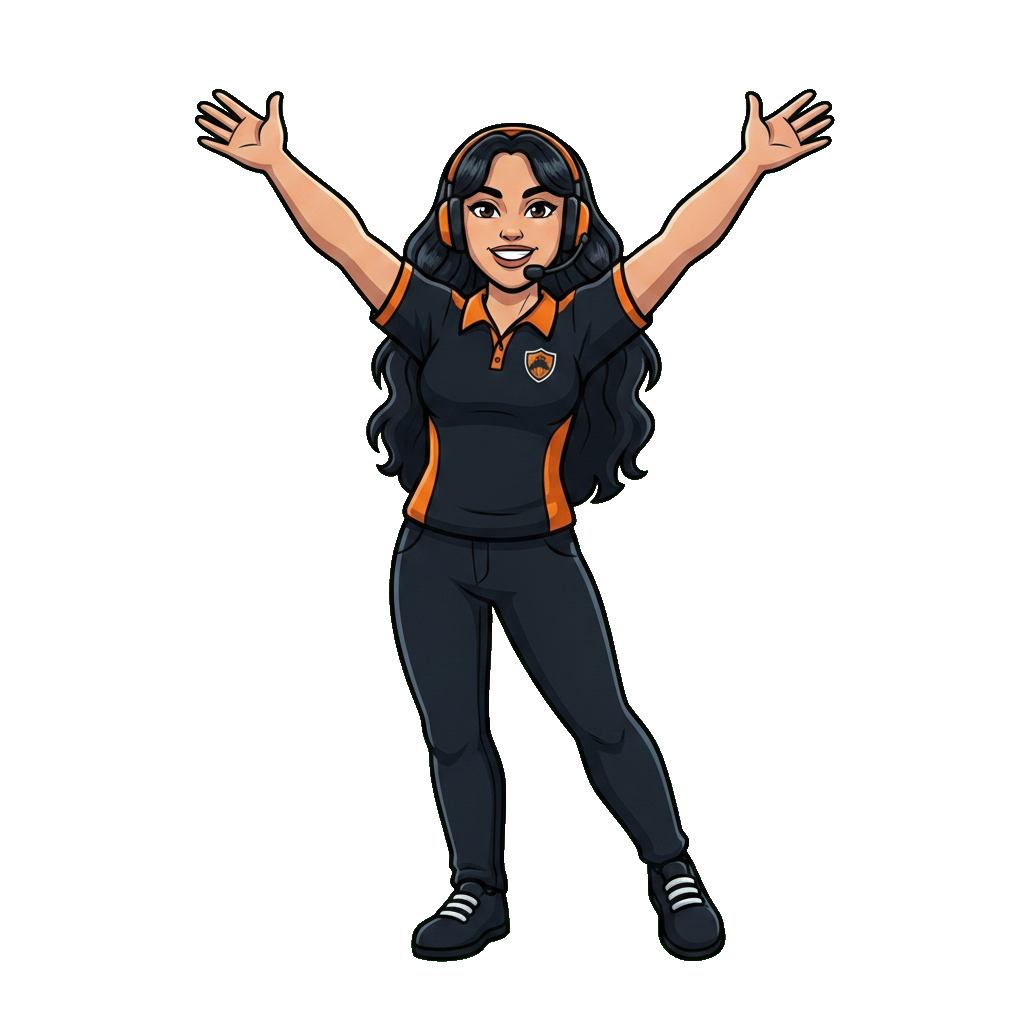
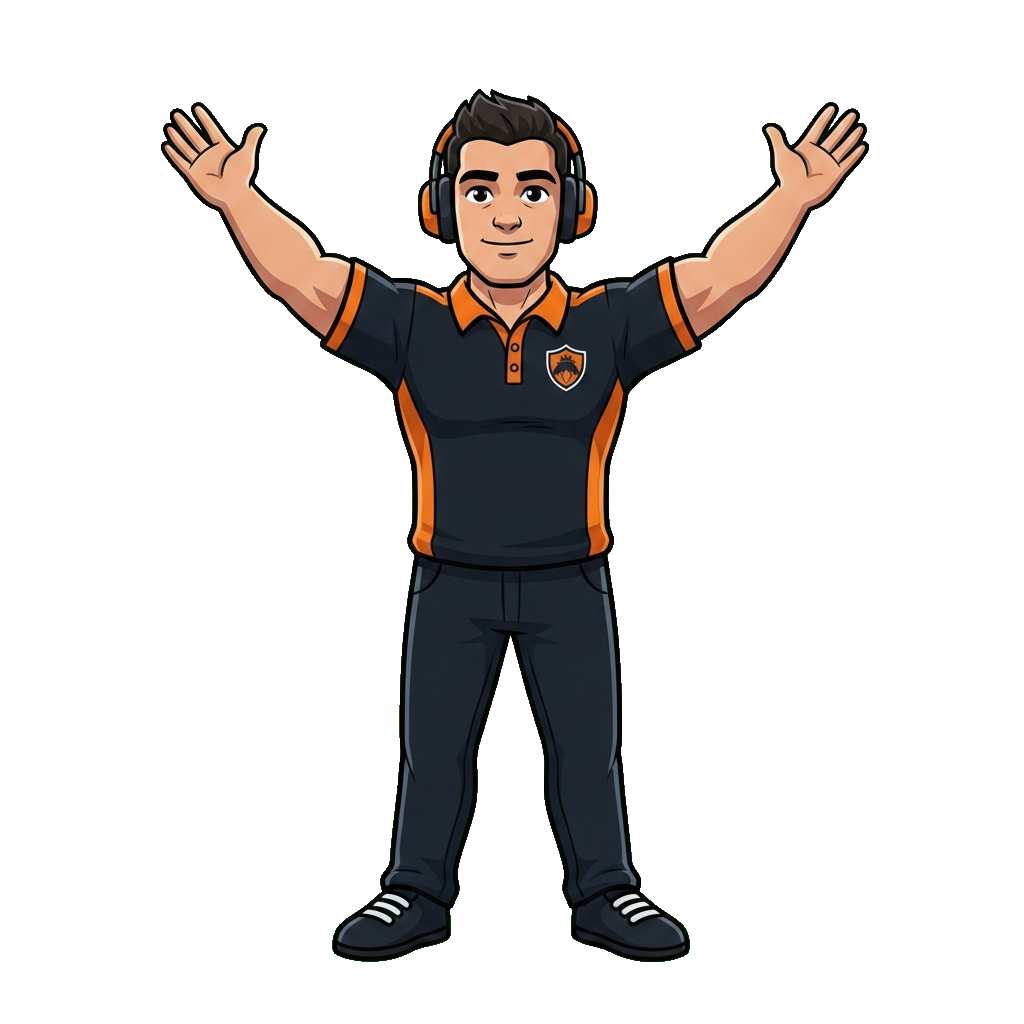
feat: heroes WALK in battle — 18 walk frames, two-frame stride cycles, action pose while attacking; QB ball flies from correct arm; Dr. Sloane rig matches canon male base art; HERO-SPRITES.md

Changed region(s): [[0.1562, 0.0938, 0.8438, 0.9375]]

diff --git a/components/BattleScreen.tsx b/components/BattleScreen.tsx
@@ -1097,6 +1097,18 @@ export const BattleScreen: React.FC<Props> = ({ config, onFinish, onExit }) => {
                     onLoad={e => { const p = e.currentTarget.previousElementSibling as HTMLElement | null; if (p) p.style.display = 'none'; }}
                     className="absolute inset-0 w-full h-full object-contain"
                     style={{ transform: `translateZ(0)${((g as BTroop & { face?: number }).face ?? 1) < 0 ? ' scaleX(-1)' : ''}`, filter: isDefense ? 'drop-shadow(0 2px 3px rgba(0,0,0,0.5))' : 'drop-shadow(0 2px 3px rgba(0,0,0,0.5)) hue-rotate(140deg) saturate(1.3)' }} />
+                  {/* Hero gate guards WALK too — same two-frame stride, derived from the portrait path */}
+                  {isHeroGuard && !g.attacking && (() => {
+                    const hk = (art!.match(/heroes\/(\w+)\.png/) || [])[1];
+                    if (!hk) return null;
+                    const gFlip = ((g as BTroop & { face?: number }).face ?? 1) > 0 ? ' scaleX(-1)' : '';
+                    const hideSelf = (e: React.SyntheticEvent<HTMLImageElement>) => { (e.currentTarget as HTMLImageElement).style.display = 'none'; };
+                    return (
+                      <>
+                        <img src={`/assets/heroes/rig/${hk}-walkA.png`} alt="" draggable={false} onError={hideSelf} className="absolute inset-0 w-full h-full object-contain" style={{ animation: 'fhq-stepA 0.46s linear infinite', transform: `translateZ(0)${gFlip}`, filter: 'drop-shadow(0 2px 3px rgba(0,0,0,0.5))' }} />
+                        <img src={`/assets/heroes/rig/${hk}-walkB.png`} alt="" draggable={false} onError={hideSelf} className="absolute inset-0 w-full h-full object-contain" style={{ animation: 'fhq-stepB 0.46s linear infinite', transform: `translateZ(0)${gFlip}`, filter: 'drop-shadow(0 2px 3px rgba(0,0,0,0.5))' }} />
+                      </>
+                    ); })()}
                   {!isHeroGuard && <span className="absolute bottom-0 left-1/2 -translate-x-1/2 text-white font-black leading-none px-1 rounded" style={{ fontSize: '1.2vmin', background: 'rgba(0,0,0,0.55)' }}>{g.jersey}</span>}
                 </div>
               </div>
@@ -1144,6 +1156,22 @@ export const BattleScreen: React.FC<Props> = ({ config, onFinish, onExit }) => {
                       <span style={{ fontSize: '2.3vmin', lineHeight: 1 }}>{heroDef.emoji}</span>
                     </div>
                     <img src={heroDef.art} alt="" draggable={false} onError={e => { (e.currentTarget as HTMLImageElement).style.display = 'none'; }} onLoad={hidePrev} className="absolute inset-0 w-full h-full object-contain" style={{ filter: glow, opacity: t.hitFlash > 0 ? 0.6 : 1, animation: anim, transform: `translateZ(0)${flip}` }} />
+                    {/* HEROES WALK: two-frame stride while moving, action pose while attacking.
+                        Walk frames face viewer-LEFT natively → flip when running right. Missing
+                        frames self-hide, leaving the flat art underneath. */}
+                    {(() => { const rp = t.heroKey === 'qb'
+                        ? { action: '/assets/heroes/franchise-rig/body-followthrough.png', walkA: '/assets/heroes/rig/qb-walkA.png', walkB: '/assets/heroes/rig/qb-walkB.png' }
+                        : { action: `/assets/heroes/rig/${t.heroKey}-action.png`, walkA: `/assets/heroes/rig/${t.heroKey}-walkA.png`, walkB: `/assets/heroes/rig/${t.heroKey}-walkB.png` };
+                      const rigFlip = face > 0 ? ' scaleX(-1)' : '';
+                      const hideSelf = (e: React.SyntheticEvent<HTMLImageElement>) => { (e.currentTarget as HTMLImageElement).style.display = 'none'; };
+                      return t.attacking ? (
+                        <img src={rp.action} alt="" draggable={false} onError={hideSelf} className="absolute inset-0 w-full h-full object-contain" style={{ filter: glow, opacity: t.hitFlash > 0 ? 0.6 : 1, animation: 'fhq-pop 0.35s ease-in-out infinite', transform: `translateZ(0)${rigFlip}` }} />
+                      ) : (
+                        <>
+                          <img src={rp.walkA} alt="" draggable={false} onError={hideSelf} className="absolute inset-0 w-full h-full object-contain" style={{ filter: glow, opacity: t.hitFlash > 0 ? 0.6 : 1, animation: 'fhq-stepA 0.46s linear infinite', transform: `translateZ(0)${rigFlip}` }} />
+                          <img src={rp.walkB} alt="" draggable={false} onError={hideSelf} className="absolute inset-0 w-full h-full object-contain" style={{ filter: glow, opacity: t.hitFlash > 0 ? 0.6 : 1, animation: 'fhq-stepB 0.46s linear infinite', transform: `translateZ(0)${rigFlip}` }} />
+                        </>
+                      ); })()}
                     <span className="absolute left-1/2 -translate-x-1/2 whitespace-nowrap font-black uppercase text-yellow-200 px-1 rounded pointer-events-none" style={{ bottom: '-16%', fontSize: '1.1vmin', background: 'rgba(0,0,0,0.55)', border: '1px solid rgba(253,224,71,0.4)' }}>{heroDef.name}</span>
                   </div>
                 ) : (

diff --git a/index.html b/index.html
@@ -179,6 +179,18 @@
         96% { opacity: 1; transform: translate(140px,-95px) scale(0.5) rotate(420deg); }
         97%,100% { opacity: 0; transform: translate(150px,-105px) scale(0.45) rotate(430deg); }
       }
+      /* Two-frame walk cycle: A and B alternate on a square wave (near-instant crossfade
+         at the 50% mark reads as a step, not a blend). */
+      @keyframes fhq-stepA { 0%,49.5% { opacity: 1; } 50%,100% { opacity: 0; } }
+      @keyframes fhq-stepB { 0%,49.5% { opacity: 0; } 50%,100% { opacity: 1; } }
+      /* Mirrored flight for lefts-facing throws (QB's throwing hand is on the viewer's
+         left; scaleX(-1) also flips the ball art so its flame trail points the right way). */
+      @keyframes fhq-ball-left {
+        0%,79% { opacity: 0; transform: translate(0,0) scale(0.5) rotate(0deg) scaleX(-1); }
+        83% { opacity: 1; transform: translate(-4px,-2px) scale(0.9) rotate(-20deg) scaleX(-1); }
+        96% { opacity: 1; transform: translate(-140px,-95px) scale(0.5) rotate(-420deg) scaleX(-1); }
+        97%,100% { opacity: 0; transform: translate(-150px,-105px) scale(0.45) rotate(-430deg) scaleX(-1); }
+      }
       .fhq-shine { position: relative; overflow: hidden; }
       .fhq-shine::after { content: ''; position: absolute; top: -30%; bottom: -30%; width: 34%; left: -45%; background: linear-gradient(105deg, transparent, rgba(255,255,255,0.75), transparent); transform: skewX(-20deg); pointer-events: none; }
       .fhq-shine:hover::after { animation: fhq-sweep 0.6s ease-out; }

diff --git a/components/HeroModal.tsx b/components/HeroModal.tsx
@@ -21,8 +21,9 @@ interface Props {
 // Every hero's two-pose rig: clean body (idle sway + wind-up) and an action pose that
 // swaps in on the beat (fhq-qb-body/body2 keyframes — generic despite the name).
 // Missing files degrade: body falls back to the flat card art, action/ball just hide.
-const HERO_RIG: Record<string, { body: string; action: string; ball?: { left: string; top: string } }> = {
-  qb:        { body: '/assets/heroes/franchise-rig/body.png', action: '/assets/heroes/franchise-rig/body-followthrough.png', ball: { left: '52%', top: '22%' } },
+const HERO_RIG: Record<string, { body: string; action: string; ball?: { left: string; top: string; anim?: string } }> = {
+  // QB throws with the viewer-LEFT hand — ball spawns there and flies up-left (mirrored flight).
+  qb:        { body: '/assets/heroes/franchise-rig/body.png', action: '/assets/heroes/franchise-rig/body-followthrough.png', ball: { left: '10%', top: '18%', anim: 'fhq-ball-left' } },
   enforcer:  { body: '/assets/heroes/rig/enforcer-body.png',  action: '/assets/heroes/rig/enforcer-action.png' },
   coach:     { body: '/assets/heroes/rig/coach-body.png',     action: '/assets/heroes/rig/coach-action.png' },
   kicker:    { body: '/assets/heroes/rig/kicker-body.png',    action: '/assets/heroes/rig/kicker-action.png', ball: { left: '44%', top: '48%' } },
@@ -148,7 +149,7 @@ export const HeroModal: React.FC<Props> = ({ heroes, resources, stadiumLevel, la
                         <img src="/assets/heroes/franchise-rig/ball.png" alt="" draggable={false}
                           onError={e => { (e.currentTarget as HTMLImageElement).style.display = 'none'; }}
                           className="absolute pointer-events-none"
-                          style={{ width: '34%', left: rig.ball.left, top: rig.ball.top, animation: `fhq-qb-ball 7s ease-in-out ${dly} infinite`, opacity: 0 }} />
+                          style={{ width: '34%', left: rig.ball.left, top: rig.ball.top, animation: `${rig.ball.anim ?? 'fhq-qb-ball'} 7s ease-in-out ${dly} infinite`, opacity: 0 }} />
                       )}
                     </div>
                     ); })()

diff --git a/scripts/gen_hero_walks.py b/scripts/gen_hero_walks.py
@@ -1,0 +1,44 @@
+#!/usr/bin/env python3
+"""Walk cycle frames for every hero: <key>-walkA.png (left foot forward) and
+<key>-walkB.png (right foot forward), both facing the VIEWER'S LEFT so battle code
+can flip with scaleX by movement direction. Ref-attached to the hero's base card art
+(identity canon). Run: python3 scripts/gen_hero_walks.py [key ...]
+"""
+import subprocess, sys, os
+
+KEYS = ["qb", "enforcer", "coach", "kicker", "burner", "medic", "captain", "playmaker", "legend"]
+
+# Explicit identity anchors where the ref alone has proven insufficient.
+ANCHOR = {
+    "medic": "a MAN with SHORT dark hair (the male athletic trainer in the reference), ",
+    "coach": "the older bearded coach in the tracksuit and cap from the reference, ",
+}
+
+BASE = ("The EXACT same character as the reference image — same face, same uniform colors "
+        "and details, same cel-shaded thick-outline style, same proportions — ")
+POSE = {
+    "walkA": ("WALKING at a steady pace toward the VIEWER'S LEFT, seen from a 3/4 side view: "
+              "LEFT foot forward and planted, right foot lifting off behind, arms swinging "
+              "naturally in opposition, relaxed stride."),
+    "walkB": ("WALKING at a steady pace toward the VIEWER'S LEFT, seen from a 3/4 side view: "
+              "RIGHT foot forward and planted, left foot lifting off behind, arms swinging "
+              "naturally in opposition (opposite arm/leg phase), relaxed stride."),
+}
+TAIL = (" No held objects, hands empty, no flames or glows or effects. Full body head to feet, "
+        "centered, ~78% of canvas height, margin on all edges. Flat solid pure bright chroma-key "
+        "green background hex #00D000, perfectly flat. NO text, NO letters.")
+
+if __name__ == "__main__":
+    keys = sys.argv[1:] or KEYS
+    os.makedirs("public/assets/heroes/rig", exist_ok=True)
+    for k in keys:
+        for frame in ("walkA", "walkB"):
+            out = f"public/assets/heroes/rig/{k}-{frame}.png"
+            if os.path.exists(out):
+                print(f"skip {out}")
+                continue
+            prompt = BASE + ANCHOR.get(k, "") + "now " + POSE[frame] + TAIL
+            print(f"=== {k} {frame} ===", flush=True)
+            subprocess.run([sys.executable, "scripts/gen_asset.py", "--out", out, "--size", "1024",
+                            "--ref", f"public/assets/heroes/{k}.png", "--prompt", prompt])
+    print("WALK BATCH DONE", flush=True)

diff --git a/HERO-SPRITES.md b/HERO-SPRITES.md
@@ -1,0 +1,106 @@
+# HERO-SPRITES.md — hero sprite system reference
+
+The single source of truth for hero art: what exists, where it lives, how it animates,
+how to generate more, and how every file gets verified before it ships.
+
+## The system in one paragraph
+
+Each hero is a **layered CSS puppet**, not a video or a Spine rig. Separate PNG layers
+(body pose A, action pose B, walk frames, shared fx) are stacked and driven by CSS
+keyframes on a shared 7-second clock per hero, staggered between heroes. Pose *swaps*
+carry the big beats (throw, kick, truck stick); whole-body transforms (sway, squash,
+hop) carry the idle; shared fx layers (flame ring, glow, ball) carry the spectacle.
+
+## Identity canon
+
+The base card art `public/assets/heroes/<key>.png` is CANON for each hero's face, hair,
+build, and uniform. Every generated layer must attach it as the reference image AND
+spell out identity anchors in the prompt (gender, hair, distinctive gear) — reference
+images alone have flipped identity twice (Dr. Sloane is a MAN with short dark hair;
+prompts that said "her" invented a woman).
+
+| key | name | role | signature action | notes |
+|---|---|---|---|---|
+| qb | The Franchise | QB | pose-swap throw + ball flies UP-LEFT (his throwing hand is on the viewer's left) | ball uses `fhq-ball-left` |
+| enforcer | The Enforcer | RB | Truck Stick shoulder charge | |
+| coach | The General | HC | shouting play-call point | older, bearded, tracksuit + cap |
+| kicker | The Specialist | K | kick follow-through | ball spawns at foot, flies up-right (`fhq-qb-ball`) |
+| burner | The Burner | WR | sprint lunge | tinted visor; jersey 88 (from base art) |
+| medic | Dr. Sloane | Team Doc | rally-heal, arms raised | MAN, short dark hair, headset — do NOT genderflip |
+| captain | The Captain | S | Shield Wall brace | "C" patch |
+| playmaker | The Playmaaker | WR | juke + stiff-arm | jersey 88 (duplicate of burner's — cosmetic, from base arts) |
+| legend | The Legend | GOAT | arms-wide showboat | gold visor, jersey 21 |
+
+## File inventory
+
+```
+public/assets/heroes/
+  <key>.png                     # base card art (CANON identity; used as gen reference)
+  franchise-rig/                # QB got the pilot rig, richer than the rest
+    body.png                    # clean body, empty hands, no aura (pose A)
+    body-followthrough.png      # release pose (pose B)
+    aura-ring.png               # golden flame ring — SHARED by all heroes, hue-rotated per hero
+    aura-glow.png               # soft radial glow (procedural PIL)
+    ball.png                    # glowing football w/ flame trail
+    arm-throw.png               # BANKED: clean separate arm for a future true-arm rig
+  rig/
+    <key>-body.png              # pose A: clean idle body, hands empty, no effects
+    <key>-action.png            # pose B: signature action
+    <key>-walkA.png             # walk frame: LEFT foot forward, facing viewer-LEFT
+    <key>-walkB.png             # walk frame: RIGHT foot forward, facing viewer-LEFT
+```
+
+All layers: 1024², transparent, zero opaque pixels touching any edge, zero interior
+green-dominant pixels. Walk frames face the VIEWER'S LEFT; battle code flips with
+`scaleX(-1)` for rightward movement.
+
+## Animation wiring (where the code lives)
+
+- **Keyframes**: `index.html` — `fhq-qb-body` (pose A: idle sway + wind-up + hide during
+  swap), `fhq-qb-body2` (pose B: snap in at 83.5–95% of the cycle), `fhq-qb-ball` /
+  `fhq-ball-left` (projectile flights), `fhq-hero-idle` (fallback whole-body idle),
+  `fhq-aura` (ring spin), `fhq-glow` (glow breathe). Names say "qb" for historical
+  reasons — they are generic.
+- **Card rigs**: `components/HeroModal.tsx` → `HERO_RIG` map (body/action paths +
+  optional ball spawn/flight). Stagger: `animation-delay: -(heroIdx*1.9 % 7)s` on all of
+  a hero's layers (same delay per hero keeps its layers in sync).
+- **Transform-order gotcha**: `scaleX(-1)` must be LAST in the transform list or it
+  mirrors the translation too and the projectile flies the wrong way.
+- **Battle walk cycle** (target design): units carrying hero art alternate
+  `<key>-walkA/-walkB` every ~220ms while their position is changing, `scaleX(-1)` when
+  moving right, drop to `-body` when stationary, `-action` while attacking.
+
+## Generation pipeline
+
+- `scripts/gen_asset.py` — single asset: Gemini (`gemini-2.5-flash-image`, key in
+  `.env`), `--ref` for identity, chroma knockout + corner flood-fill fallback +
+  edge/interior verification + auto-defringe. ~3–4¢ per image.
+- `scripts/gen_hero_rigs.py [key ...]` — body+action pairs (skips existing files;
+  delete a file to regenerate it).
+- `scripts/gen_hero_walks.py [key ...]` — walkA/walkB pairs.
+
+Prompt laws (violating any of these has caused a real reshipped defect):
+1. Attach the base art as `--ref` AND write explicit identity anchors in the prompt.
+2. Never ask for green elements — the model refuses them on a chroma-green screen
+   (JV crest ribbon, twice). Generate neutral, tint programmatically after knockout.
+3. "no text" always; expect position letters/numbers from base art to carry over (fine).
+4. Hands EMPTY on rig layers — held objects break pose swaps.
+5. Full body, margins on all edges, ~80% canvas height.
+
+## Verification checklist (every delivery, no exceptions)
+
+1. Pixel scan: zero near-edge opaque px, zero interior green-dominant px (the script
+   does this; Antigravity's edge-only checks missed interior residue 4 times).
+2. **Eyeball the actual file** — verify identity against the base art (gender, hair,
+   uniform, build). Machine checks can't catch a genderflip.
+3. Stack test for paired layers: poses A/B should overlay at the same scale/position.
+4. Timed-animation check: seek `anim.currentTime = progress*7000 + delayMs` (delay is
+   NEGATIVE) and read computed opacity — long JS poll loops get throttled.
+
+## Roadmap
+
+- [x] Card rigs: all 9 heroes, two-pose action swaps (Round 8)
+- [ ] Walk cycles wired into BattleScreen (frames generating — Round 9)
+- [ ] True-arm QB rig using banked `arm-throw.png` (rotate at shoulder pivot)
+- [ ] Battle-scale action swaps (use `-action` frame while a hero unit attacks)
+- [ ] Board walkers upgraded from position-group singles to hero walk frames